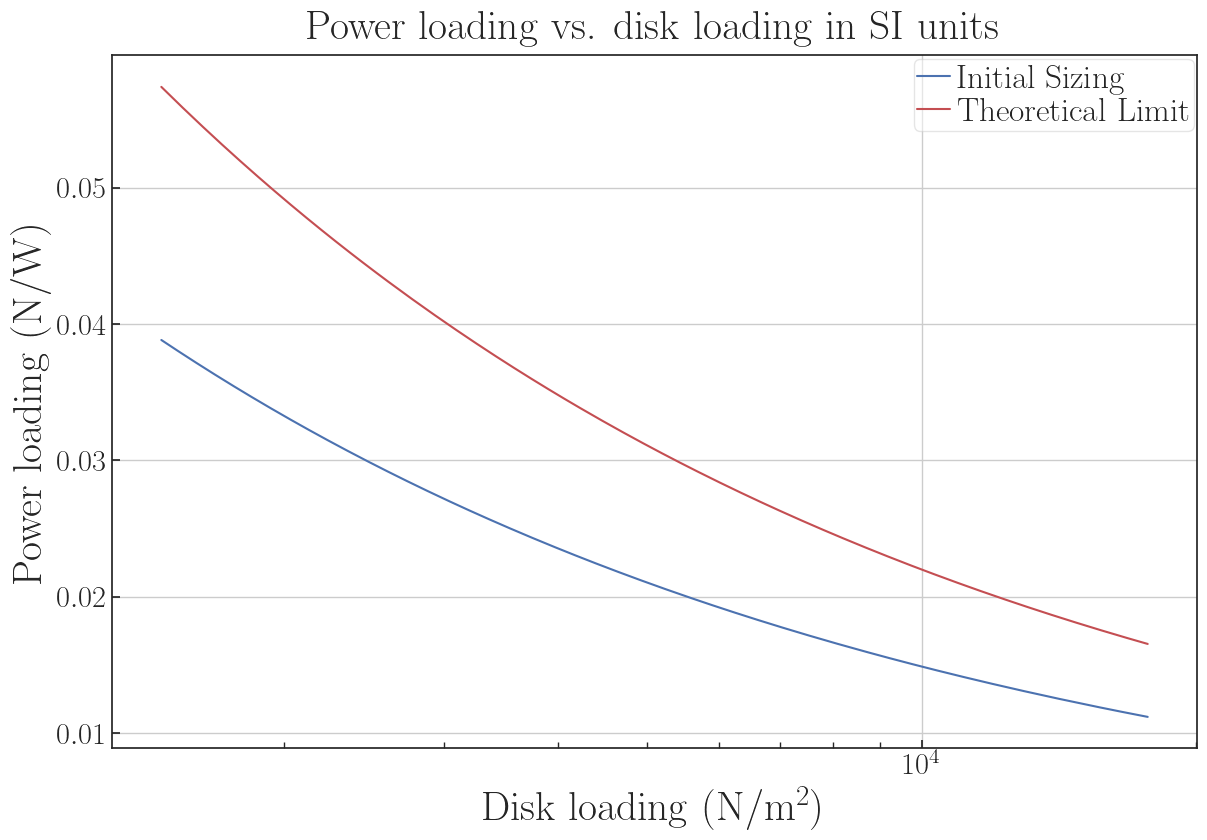
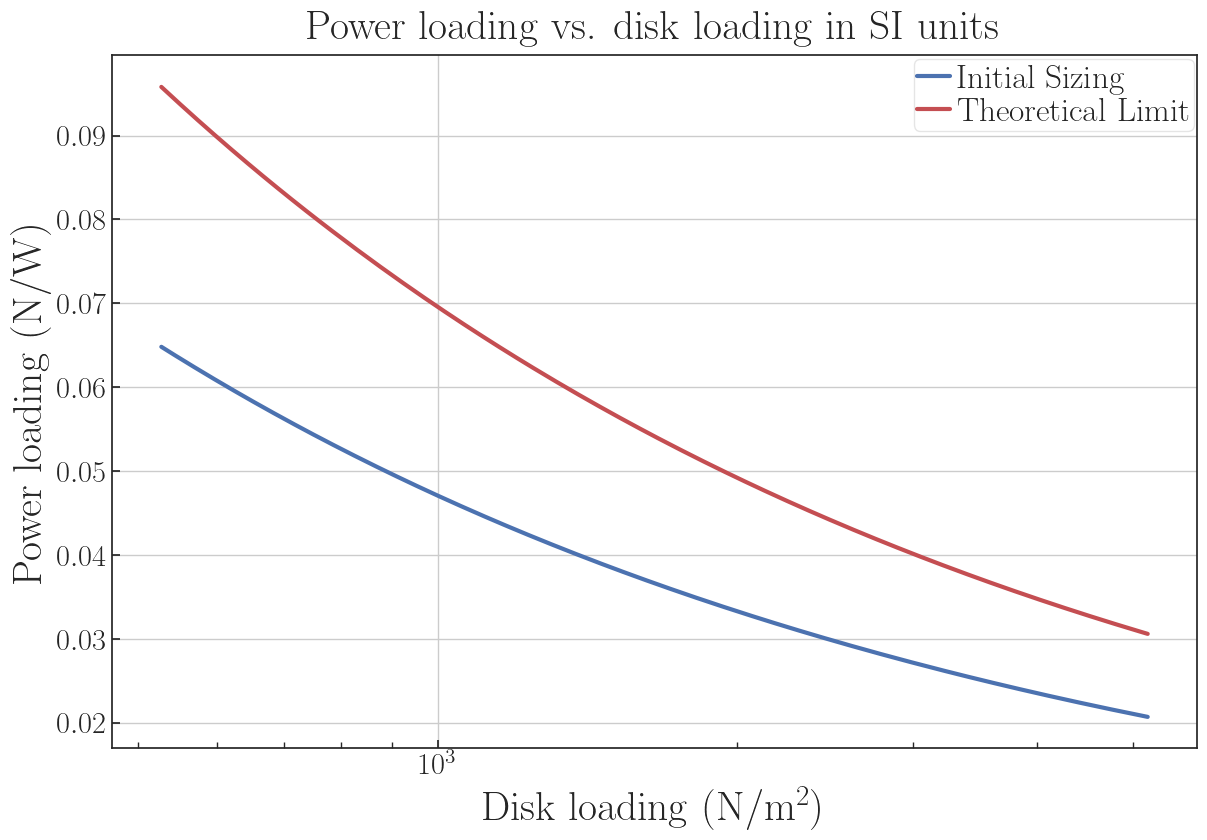
Debugged small issue in sizing figures
TVG 02.21.2021

diff --git a/Sizing/component_sizing.py b/Sizing/component_sizing.py
@@ -80,6 +80,18 @@ def power_system_mass_sizing(distr, rho_battery, E, P_req_H2, battery_reserve):
         SimpleFuelCell.rated_power = 100e3   #W
         SimpleFuelCell.cell_weight = 385    #kg 
         SimpleFuelCell.name = "100kW fcmovetm"
+    elif P_req_H2 > 100e3 and P_req_H2 <= 140e3:
+        SimpleFuelCell.rated_power = 70e3*2   #W
+        SimpleFuelCell.cell_weight = 250*2    #kg
+        SimpleFuelCell.name = "Two 70kW fcvelocity-hd"
+    elif P_req_H2 > 140e3 and P_req_H2 <= 170e3:
+        SimpleFuelCell.rated_power = 85e3*2   #W
+        SimpleFuelCell.cell_weight = 361*2    #kg
+        SimpleFuelCell.name =  "Two 85kW fcmovetm"
+    elif P_req_H2 > 170e3 and P_req_H2 <= 200e3:
+        SimpleFuelCell.rated_power = 100e3*2   #W
+        SimpleFuelCell.cell_weight = 385*2    #kg 
+        SimpleFuelCell.name =  "Two 100kW fcmovetm"
     else:
         SimpleFuelCell.name = "No Single Suitable Fuel Cell"
 

diff --git a/Sizing/mass_estimate.py b/Sizing/mass_estimate.py
@@ -26,12 +26,12 @@ def mass_estimate(S_exposed, S_wetted_fuse, motors_mass, power_system_mass, payl
     '''
 
     wing_mass = 12 * S_exposed
-    ht_mass = 10 * S_exposed
-    vt_mass = 10 * S_exposed
+    ht_mass = 10 * S_exposed * 0.17
+    vt_mass = 10 * S_exposed * 0.13
 
     fuse_mass = 7 * S_wetted_fuse
 
-    subtotal = fuse_mass + wing_mass + ht_mass + vt_mass + motors_mass * 2 * 1.4 + power_system_mass + payload  # See note 1 for motor weight factor
+    subtotal = fuse_mass + wing_mass + ht_mass + vt_mass + motors_mass * 3 * 1.4 + power_system_mass + payload  # See note 1 for motor weight factor
 
     TOGM = subtotal / (1 - 0.157)  # TOGM = subtotal + 0.157*TOGM
 

diff --git a/Sizing/sizing_figures.py b/Sizing/sizing_figures.py
@@ -587,7 +587,7 @@ if __name__ == "__main__":
     CD0 = 0.02 # Assumed, slightly smaller than C182RG CD0 with landing gear retracted
 
     # Forward flight climb angle
-    gam_climb = numpy.arctan(1/20) # Based on mission requirements
+    gam_climb = numpy.arctan(1/16) # Based on mission requirements
 
     # Distribution between battery and H2 fuel
     distr = 0 # fully H2, no battery
@@ -625,8 +625,8 @@ if __name__ == "__main__":
     # Setting boundaries
     S_wing_LO = 10
     S_wing_HI = 20
-    S_disk_LO = 1.5
-    S_dist_HI = 10
+    S_disk_LO = 3
+    S_dist_HI = 20
     num = 201
 
     # Calling function

diff --git a/Utilities/formatfigures.py b/Utilities/formatfigures.py
@@ -38,6 +38,7 @@ def formatfigures():
         'axes.grid': True,  # grid on plot
         'figure.figsize': (14, 9), 
         'savefig.bbox': 'tight',  # reduce whitespace in saved figures
+        'lines.linewidth' : 3,
 
         # LEGEND PROPERTIES
         'legend.framealpha': 0.5,
@@ -58,6 +59,7 @@ def formatfigures():
     from matplotlib import rc
     rc('font', **{'family': 'serif', 'serif': ['Computer Modern']})
     rc('text', usetex=True)
+
 
 
 #    print('-------------------------------------------------------------------------')

diff --git a/Sizing/sizing_process.py b/Sizing/sizing_process.py
@@ -154,7 +154,7 @@ if __name__ == "__main__":
 
 
     # Forward flight climb angle
-    gam_climb = numpy.arctan(1 / 20)     # Based on mission requirements
+    gam_climb = numpy.arctan(1 / 16)     # Based on mission requirements
 
     # Distribution between battery and H2 fuel
     distr = 0 # fully H2, no battery
